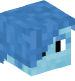
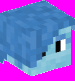
Removed Rendering of hidden objects

Changed region(s): [[0.0, 0.3457, 1.0, 1.0], [0.5867, 0.0, 1.0, 0.2222], [0.0, 0.0, 0.56, 0.1728]]

diff --git a/src/net/danielgolan/j2de/engine/JGRenderer.java b/src/net/danielgolan/j2de/engine/JGRenderer.java
@@ -40,8 +40,17 @@ public class JGRenderer {
     }
 
     public void drawImage(GImage image, int offX, int offY){
-        for (int x = 0; x < image.getWidth(); x++)
-            for (int y = 0; y < image.getHeight(); y++)
+        if (offX < - image.getWidth() || offY < - image.getHeight() || offX >= pixelWidth || offY >= pixelHeight) return;
+
+        int newX = 0, newY = 0, newWidth = image.getWidth(), newHeight = image.getHeight();
+
+        if (offX < 0) newX -= offX;
+        if (offY < 0) newY -= offY;
+        if (newWidth + offX >= pixelWidth) newWidth -= newWidth + offX - pixelWidth;
+        if (newHeight + offY >= pixelHeight) newHeight -= newHeight + offY - pixelHeight;
+
+        for (int x = newX; x < newWidth; x++)
+            for (int y = newY; y < newHeight; y++)
                 setPixel(x + offX, y + offY, image.getPixels()[x + y * image.getWidth()]);
     }
 }

diff --git a/src/net/danielgolan/j2de/game/GameManager.java b/src/net/danielgolan/j2de/game/GameManager.java
@@ -23,7 +23,7 @@ public class GameManager extends Game {
 
     @Override
     public void render(JEngine jEngine, JGRenderer jgRenderer) {
-        jgRenderer.drawImage(image, jEngine.getInput().getMouseX(), jEngine.getInput().getMouseY());
+        jgRenderer.drawImage(image, jEngine.getInput().getMouseX() - 32, jEngine.getInput().getMouseY() - 32);
     }
 
     public static void main(String[] args) {
